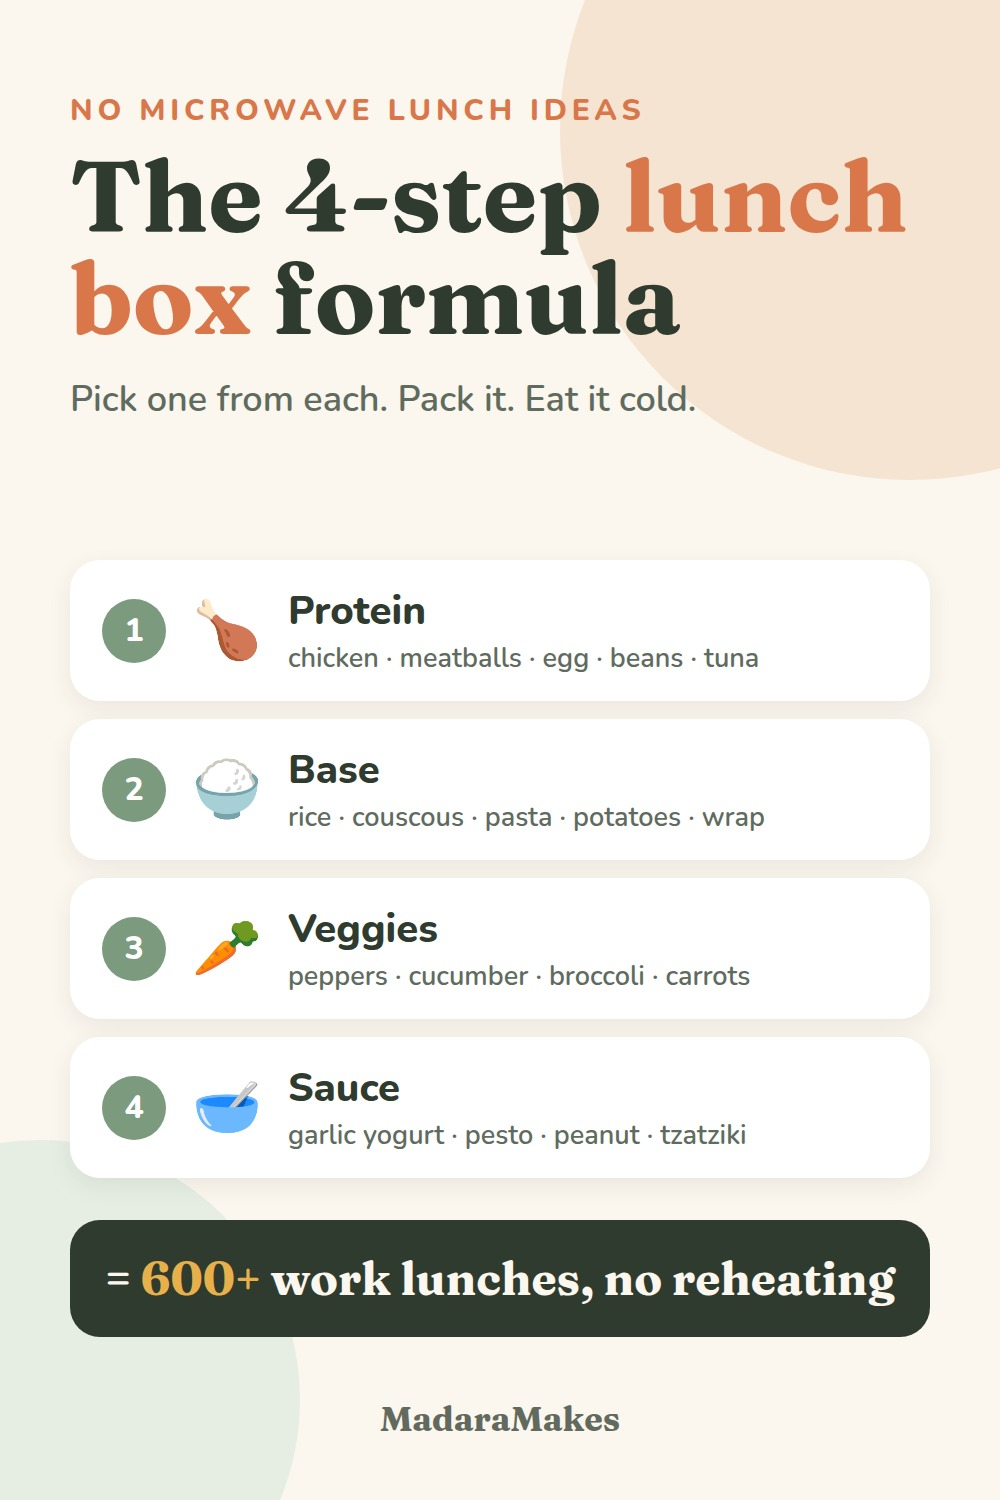
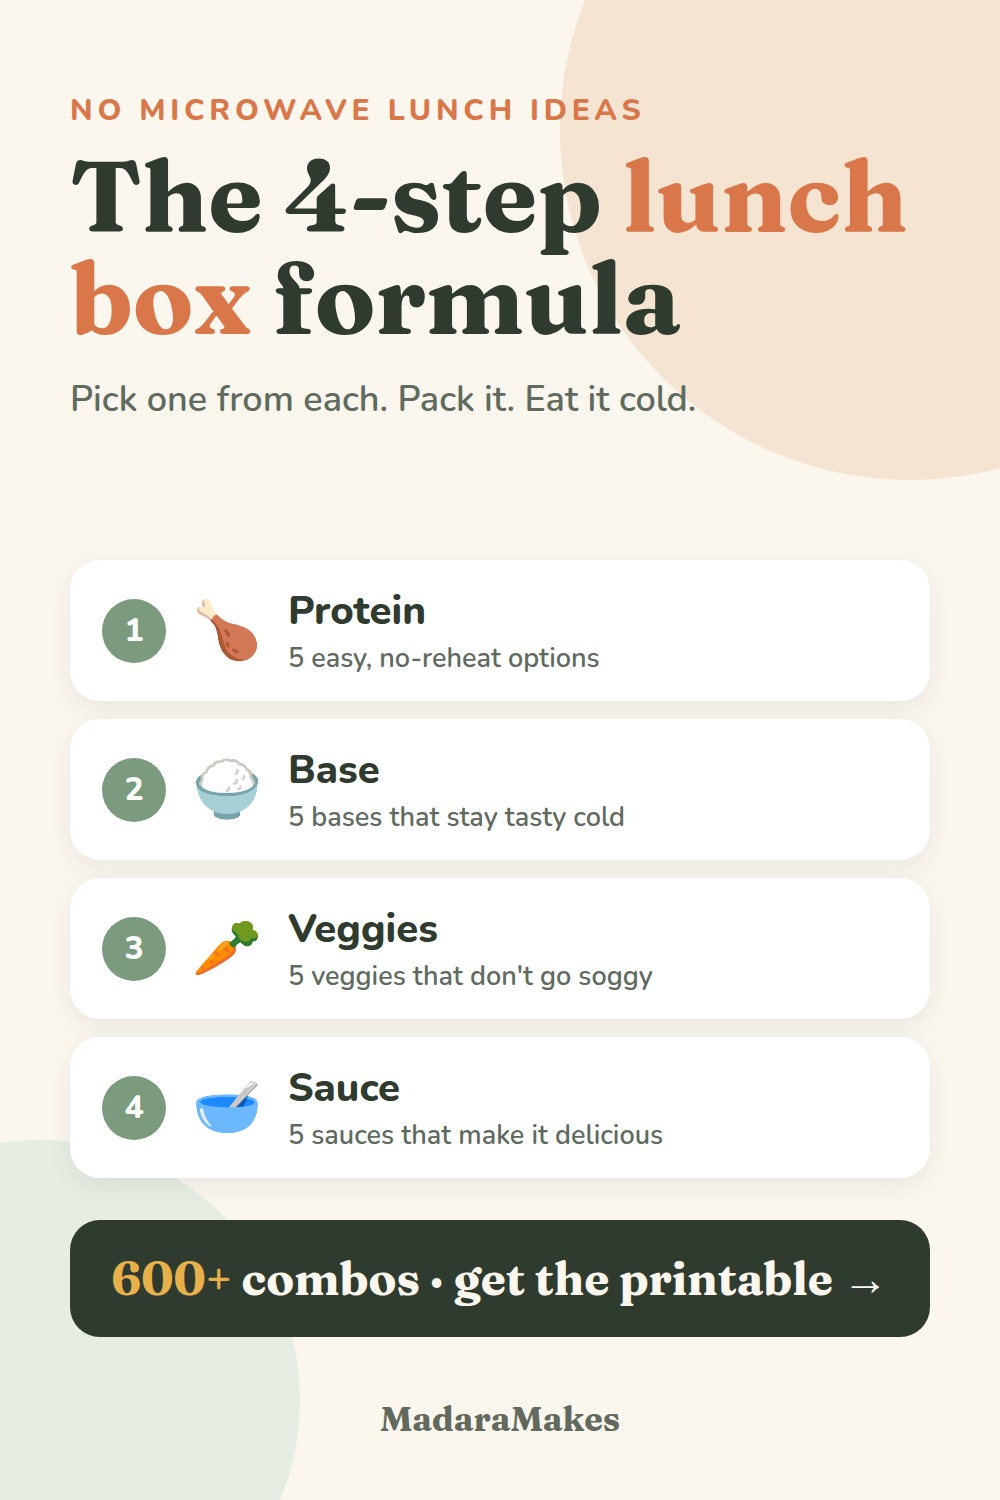
Make formula pin a teaser instead of revealing the full formula
Claude-Session: https://claude.ai/code/session_01KPPwg3qjQ8qHbGrYntyvxT

diff --git a/freebie/listing/pin-4-formula.html b/freebie/listing/pin-4-formula.html
@@ -15,11 +15,11 @@ h1{font-size:100px;line-height:1.02}h1 span{color:#D9774B}
 </style></head><body><div class="blob b1"></div><div class="blob b2"></div>
 <div class="top"><div class="kicker">No microwave lunch ideas</div><h1>The 4-step <span>lunch box</span> formula</h1><div class="sub">Pick one from each. Pack it. Eat it cold.</div></div>
 <div class="steps">
-<div class="s"><div class="n">1</div><div class="e">🍗</div><div class="t">Protein<small>chicken · meatballs · egg · beans · tuna</small></div></div>
-<div class="s"><div class="n">2</div><div class="e">🍚</div><div class="t">Base<small>rice · couscous · pasta · potatoes · wrap</small></div></div>
-<div class="s"><div class="n">3</div><div class="e">🥕</div><div class="t">Veggies<small>peppers · cucumber · broccoli · carrots</small></div></div>
-<div class="s"><div class="n">4</div><div class="e">🥣</div><div class="t">Sauce<small>garlic yogurt · pesto · peanut · tzatziki</small></div></div>
+<div class="s"><div class="n">1</div><div class="e">🍗</div><div class="t">Protein<small>5 easy, no-reheat options</small></div></div>
+<div class="s"><div class="n">2</div><div class="e">🍚</div><div class="t">Base<small>5 bases that stay tasty cold</small></div></div>
+<div class="s"><div class="n">3</div><div class="e">🥕</div><div class="t">Veggies<small>5 veggies that don't go soggy</small></div></div>
+<div class="s"><div class="n">4</div><div class="e">🥣</div><div class="t">Sauce<small>5 sauces that make it delicious</small></div></div>
 </div>
-<div class="eq">= <b>600+</b> work lunches, no reheating</div>
+<div class="eq"><b>600+</b> combos · get the printable →</div>
 <div class="brand">MadaraMakes</div>
 </body></html>
